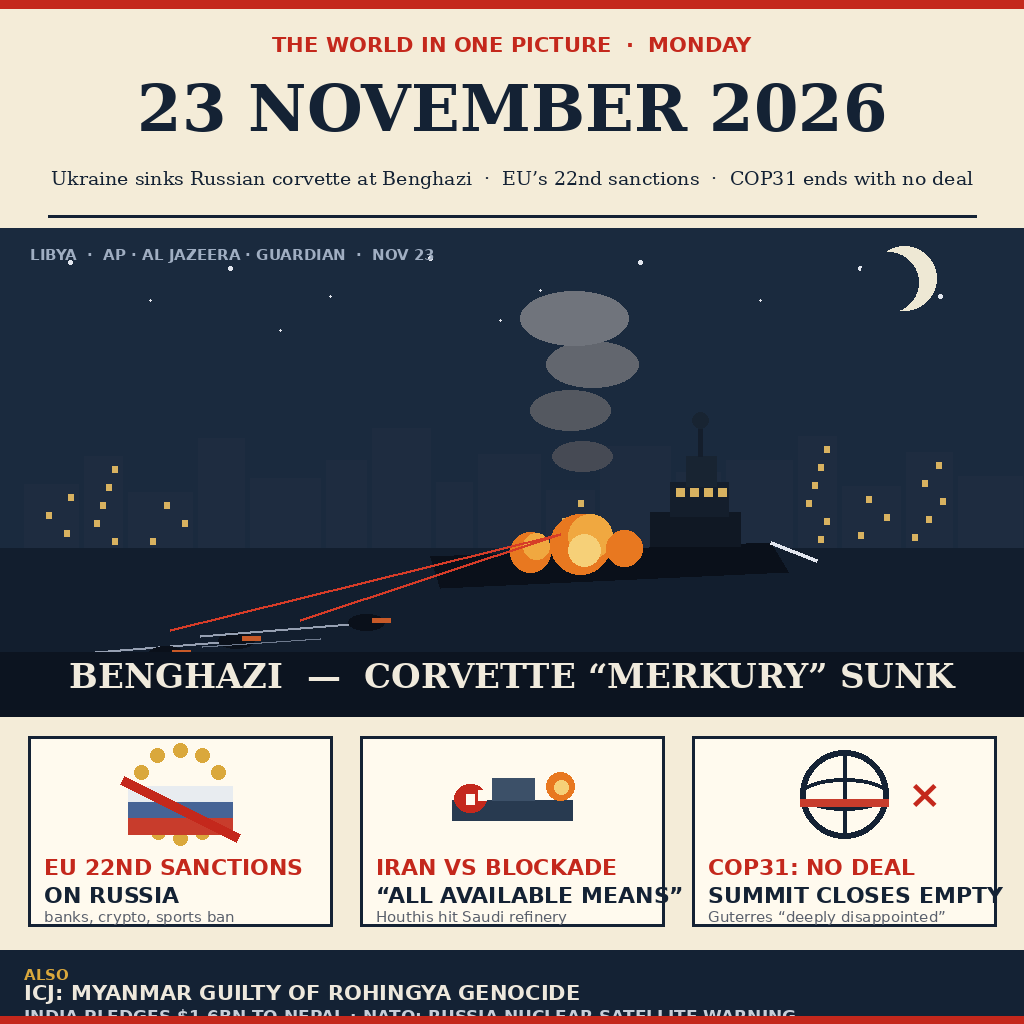
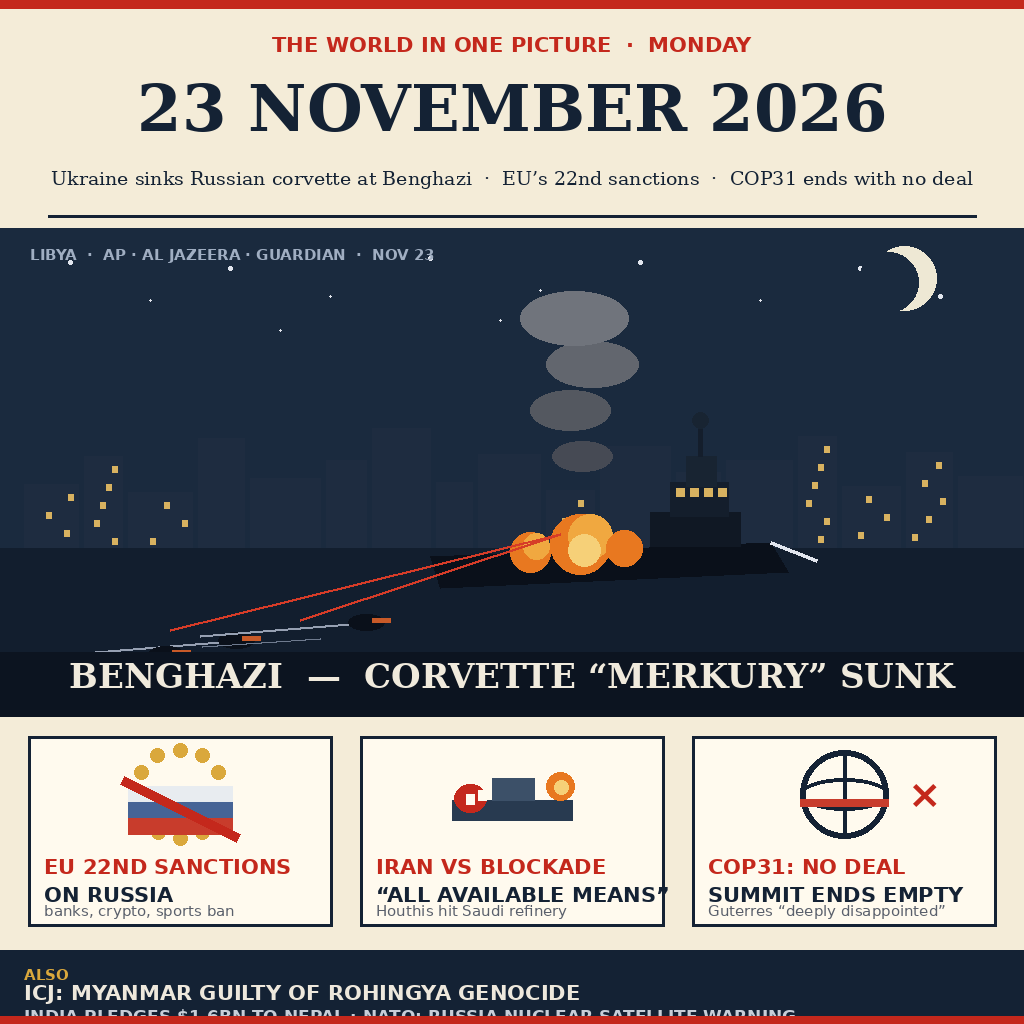
QA: fit card headlines and sublines

Changed region(s): [[0.375, 0.8125, 0.6562, 0.9062], [0.6875, 0.8125, 0.9688, 0.9062], [0.0312, 0.8125, 0.3125, 0.9062]]

diff --git a/gen.py b/gen.py
@@ -114,13 +114,13 @@ d.text((30, hy0+18), "LIBYA  ·  AP · AL JAZEERA · GUARDIAN  ·  NOV 23", font
 cy0, cy1 = 736, 930
 cw = (W - 4*28) // 3
 xs = [28, 28 + cw + 28, 28 + 2*(cw + 28)]
-f_head = font(SANS_B, 22)
+f_head = font(SANS_B, 21)
 f_sub  = font(SANS, 15)
 
 cards = [
     ("EU 22ND SANCTIONS", "ON RUSSIA", "banks, crypto, sports ban"),
     ("IRAN VS BLOCKADE", "“ALL AVAILABLE MEANS”", "Houthis hit Saudi refinery"),
-    ("COP31: NO DEAL", "SUMMIT CLOSES EMPTY", "Guterres “deeply disappointed”"),
+    ("COP31: NO DEAL", "SUMMIT ENDS EMPTY", "Guterres “deeply disappointed”"),
 ]
 
 for i, ((t1, t2, sub), x) in enumerate(zip(cards, xs)):
@@ -152,7 +152,7 @@ for i, ((t1, t2, sub), x) in enumerate(zip(cards, xs)):
         d.text((ix+64, iy), "×", font=font(SANS_B, 40), fill=RED, anchor="lm")
     d.text((x+16, cy0+118), t1, font=f_head, fill=RED, anchor="la")
     d.text((x+16, cy0+146), t2, font=f_head, fill=INK, anchor="la")
-    d.text((x+16, cy0+172), sub, font=f_sub, fill=(90,96,108), anchor="la")
+    d.text((x+16, cy0+166), sub, font=f_sub, fill=(90,96,108), anchor="la")
 
 # ---------------- ticker (y 950..1024) ----------------
 d.rectangle([0, 950, W, 1024], fill=INK)
